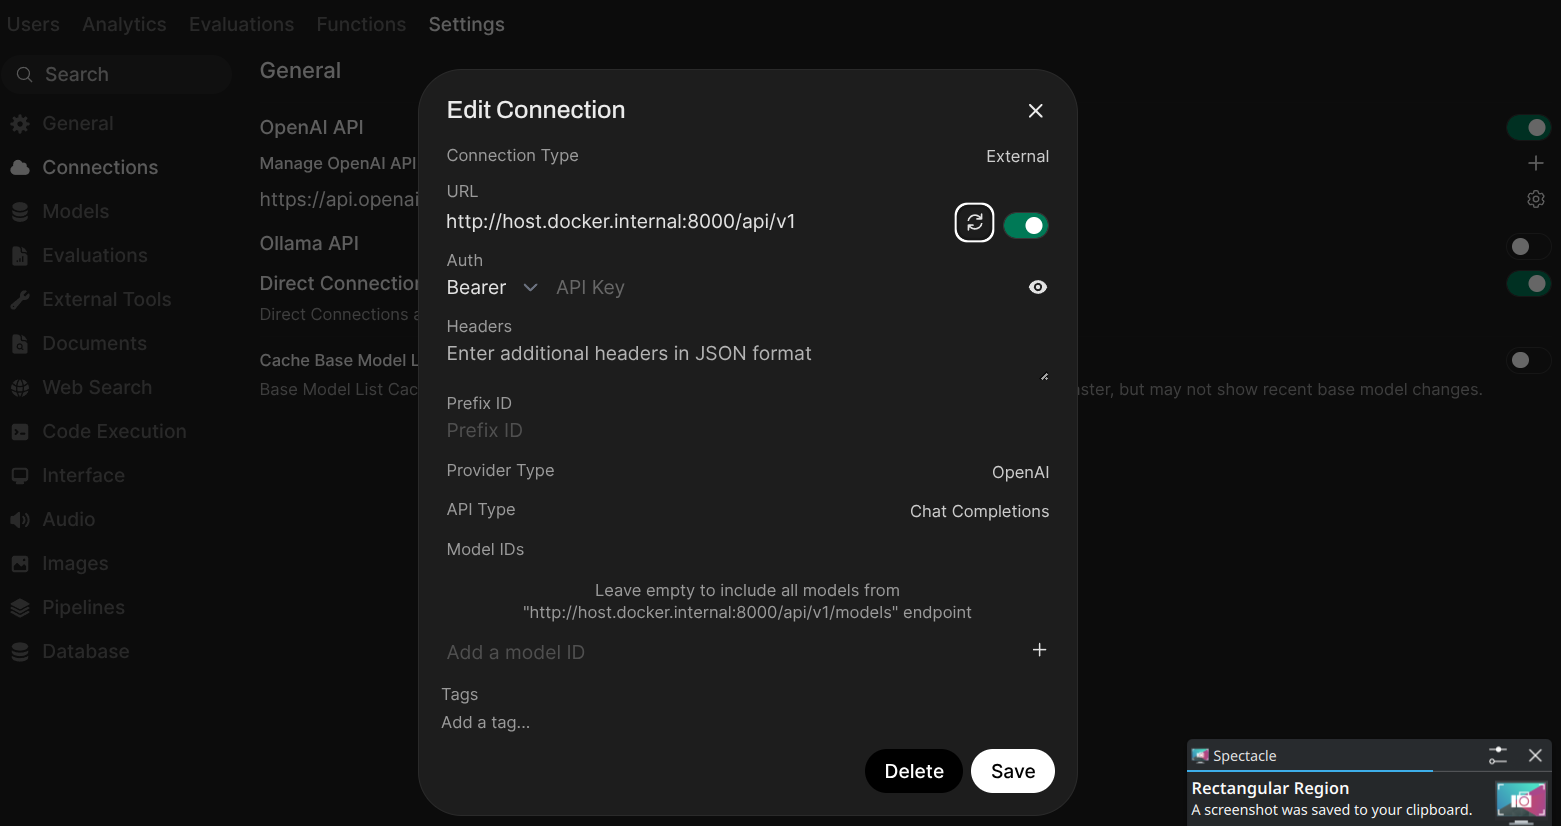
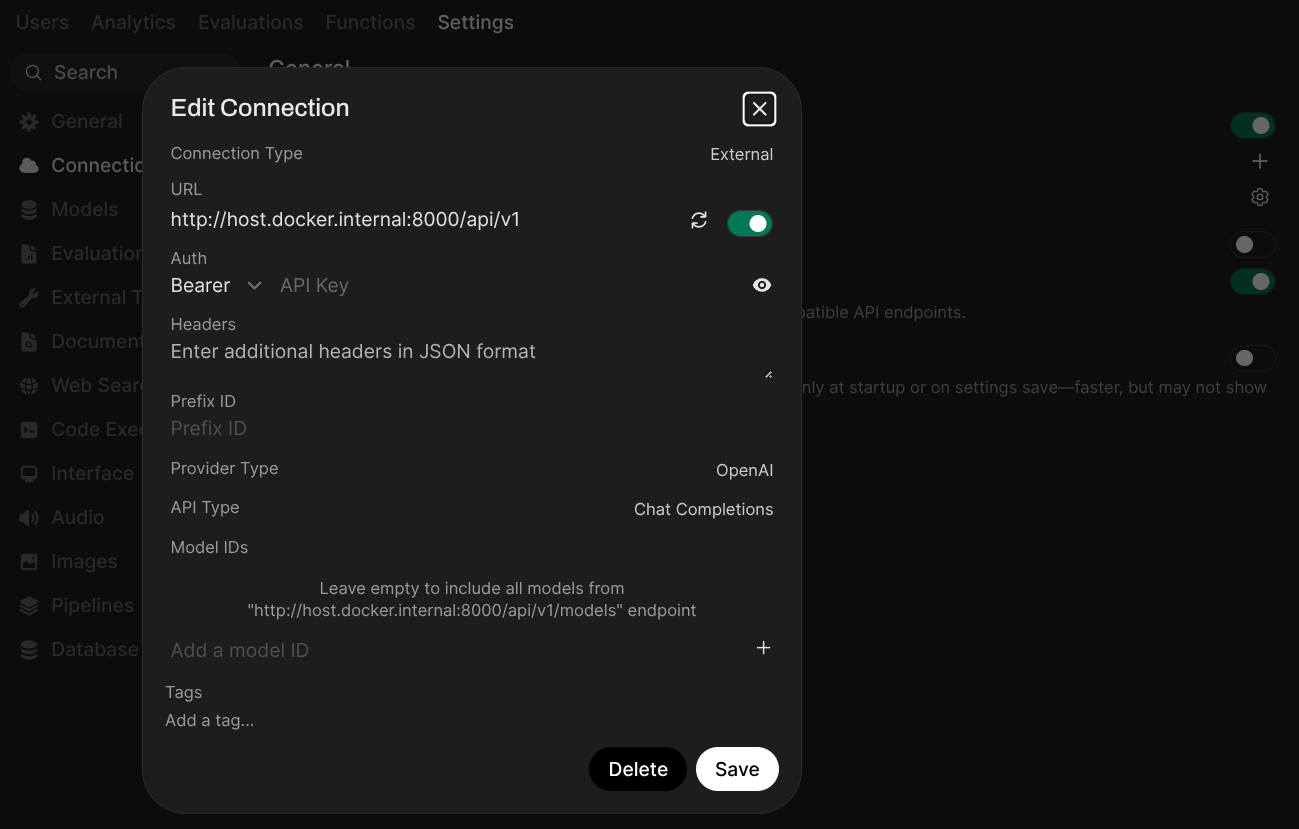
update image and displayed title

diff --git a/blog/private-ai/index.html b/blog/private-ai/index.html
@@ -53,7 +53,7 @@
 
         <main>
             <article class="post-full">
-                <h1 class="post-title">How I Built my Unified Home AI Stack (Text, Images, and Voice)</h1>
+                <h1 class="post-title">How I Built my Unified Private AI Stack (Text, Images, and Voice)</h1>
                 <p class="post-meta">February 16, 2026</p>
                 <div class="post-content">
                     <p>It's not a big secret that AI Labs train their foundational models on your personal chat sessions. While they strip PII (Personally Identifiable Information), your habits and curiosities ultimately become weights in a matrix somewhere in a data center.</p>
